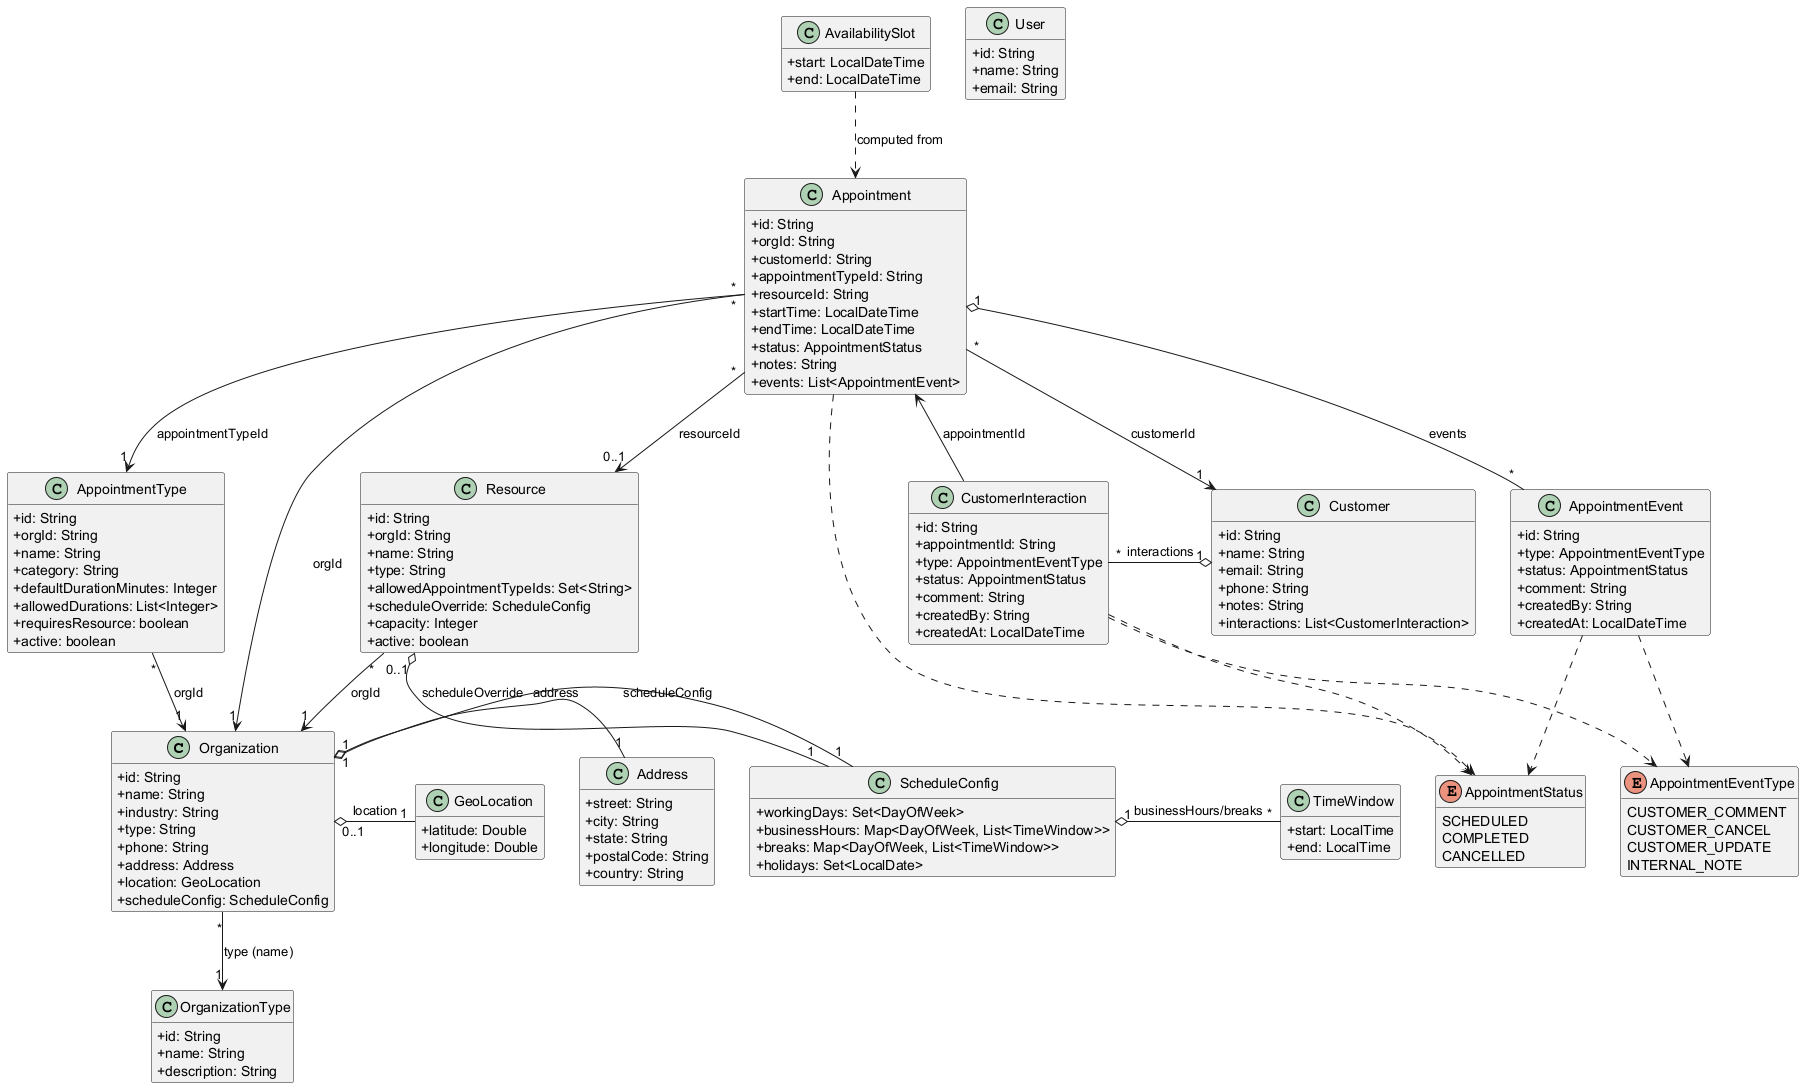
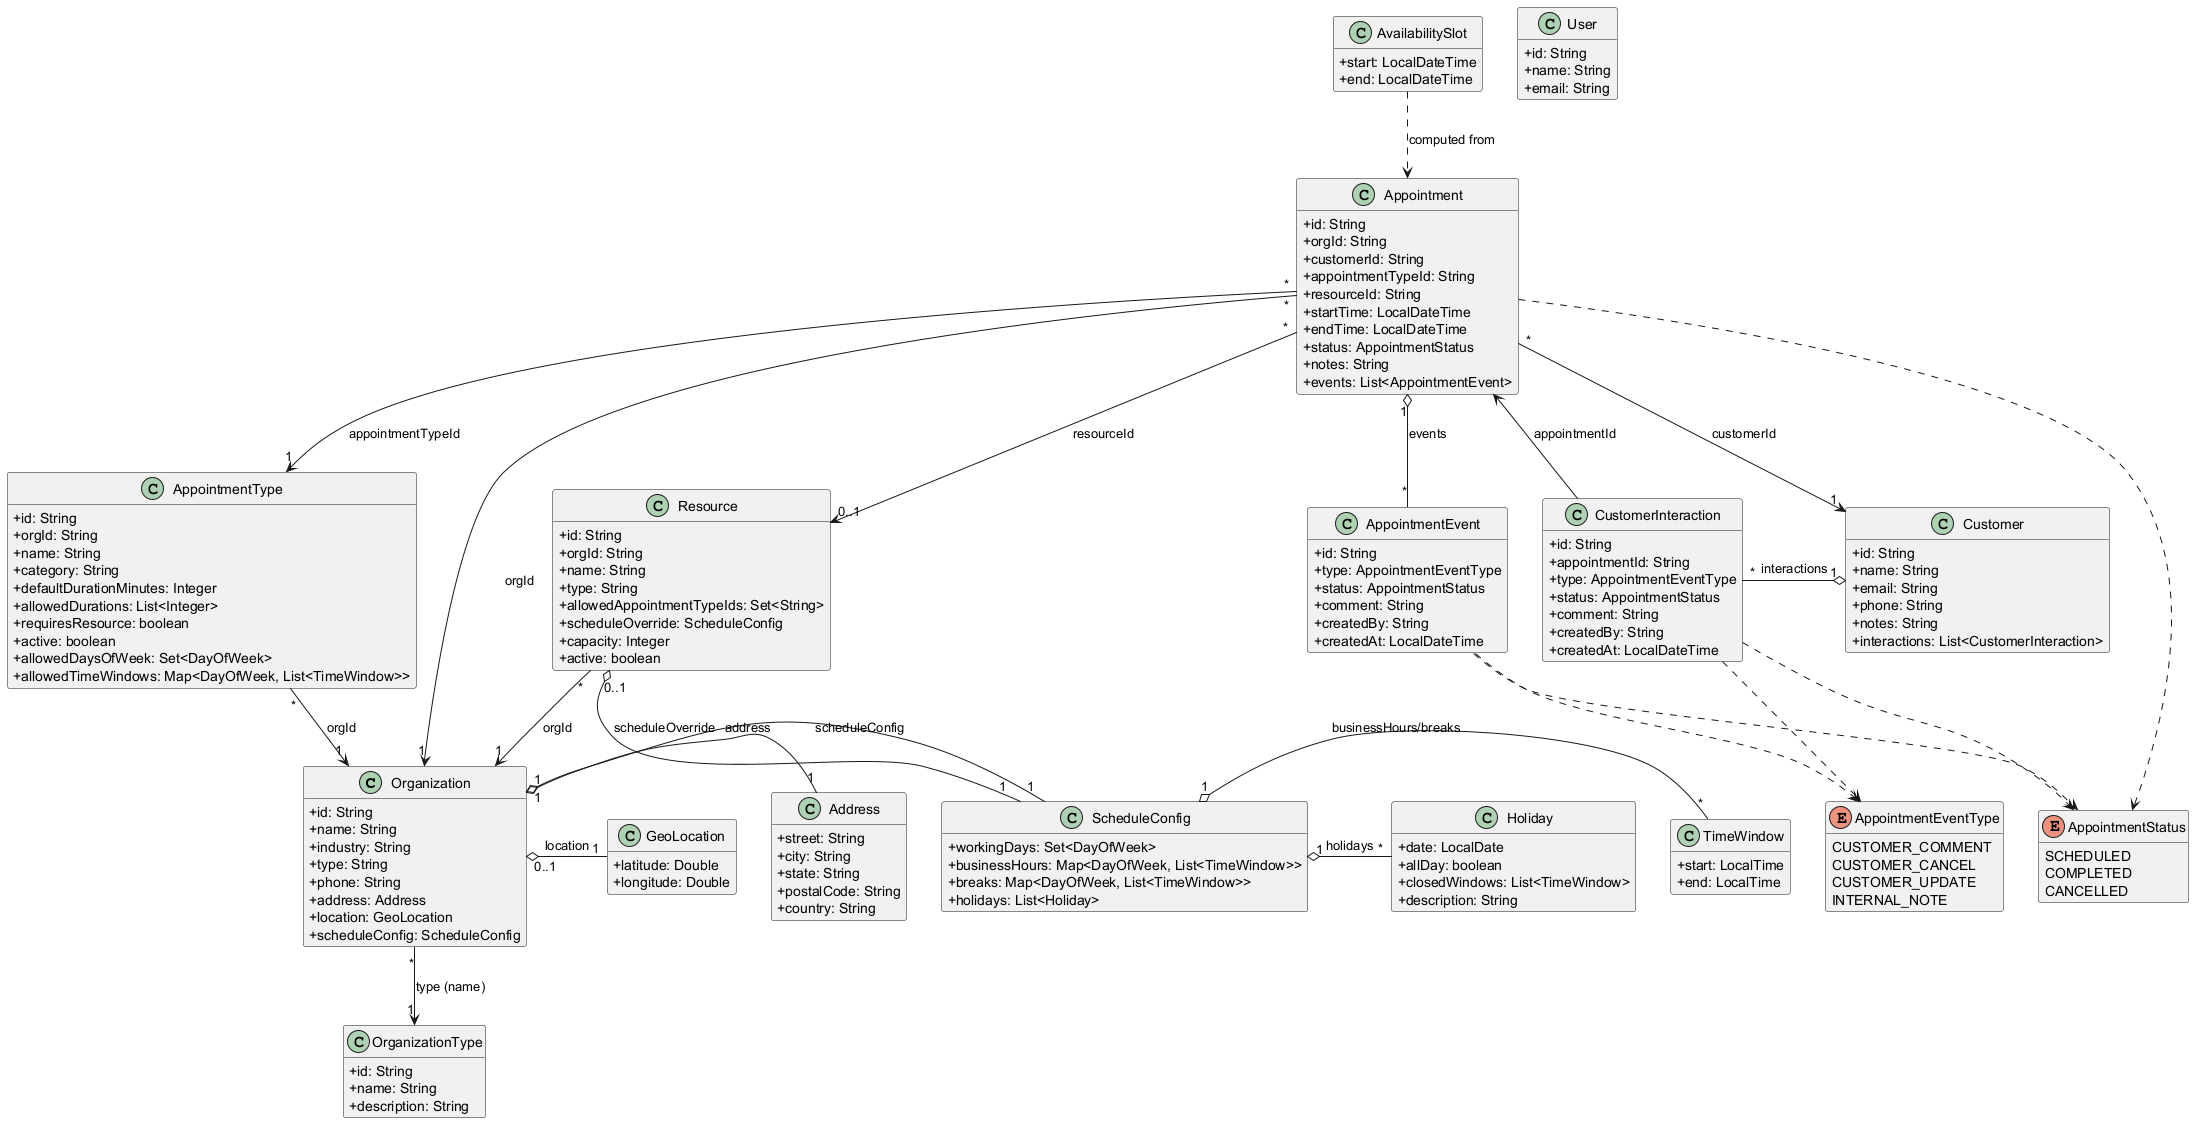
lastWoekinfVersion

diff --git a/demo/src/main/java/com/exampleproject/service/AvailabilityService.java b/demo/src/main/java/com/exampleproject/service/AvailabilityService.java
@@ -93,9 +93,17 @@ public class AvailabilityService {
         List<AvailabilitySlot> slots = new ArrayList<>();
         LocalDate date = from.toLocalDate();
         LocalDate endDate = to.toLocalDate();
+        List<Holiday> holidays = Optional.ofNullable(schedule.getHolidays()).orElse(Collections.emptyList());
+        Set<DayOfWeek> typeAllowedDays = type.getAllowedDaysOfWeek();
+        Map<DayOfWeek, List<TimeWindow>> typeAllowedWindows = type.getAllowedTimeWindows();
 
         while (!date.isAfter(endDate)) {
-            if (schedule.getHolidays() != null && schedule.getHolidays().contains(date)) {
+            final LocalDate currentDate = date;
+            List<Holiday> dayHolidays = holidays.stream()
+                    .filter(h -> h.getDate() != null && h.getDate().equals(currentDate))
+                    .collect(Collectors.toList());
+            boolean fullDayHoliday = dayHolidays.stream().anyMatch(Holiday::isAllDay);
+            if (fullDayHoliday) {
                 date = date.plusDays(1);
                 continue;
             }
@@ -104,8 +112,30 @@ public class AvailabilityService {
                 date = date.plusDays(1);
                 continue;
             }
+            if (typeAllowedDays != null && !typeAllowedDays.isEmpty() && !typeAllowedDays.contains(dow)) {
+                date = date.plusDays(1);
+                continue;
+            }
             List<TimeWindow> dayWindows = optionalList(schedule.getBusinessHours(), dow);
-            List<TimeWindow> dayBreaks = optionalList(schedule.getBreaks(), dow);
+            List<TimeWindow> allowedWindows = typeAllowedWindows != null
+                    ? sanitizeTimeWindows(typeAllowedWindows.getOrDefault(dow, Collections.emptyList()))
+                    : Collections.emptyList();
+            if (!allowedWindows.isEmpty()) {
+                dayWindows = intersectTimeWindows(dayWindows, allowedWindows);
+            }
+            if (dayWindows.isEmpty()) {
+                date = date.plusDays(1);
+                continue;
+            }
+            List<TimeWindow> dayBreaks = new ArrayList<>(optionalList(schedule.getBreaks(), dow));
+
+            List<TimeWindow> holidayBlocks = dayHolidays.stream()
+                    .filter(h -> !h.isAllDay())
+                    .flatMap(h -> sanitizeTimeWindows(h.getClosedWindows()).stream())
+                    .collect(Collectors.toList());
+            if (!holidayBlocks.isEmpty()) {
+                dayBreaks.addAll(holidayBlocks);
+            }
 
             for (TimeWindow window : dayWindows) {
                 LocalDateTime windowStart = LocalDateTime.of(date, window.getStart());
@@ -147,11 +177,7 @@ public class AvailabilityService {
     private List<TimeWindow> optionalList(Map<DayOfWeek, List<TimeWindow>> map, DayOfWeek key) {
         if (map == null) return Collections.emptyList();
         List<TimeWindow> lst = map.getOrDefault(key, Collections.emptyList());
-        // Ensure sorted and valid
-        return lst.stream()
-                .filter(tw -> tw.getStart() != null && tw.getEnd() != null && tw.getStart().isBefore(tw.getEnd()))
-                .sorted(Comparator.comparing(TimeWindow::getStart))
-                .collect(Collectors.toList());
+        return sanitizeTimeWindows(lst);
     }
 
     private boolean overlapsBreak(LocalDateTime start, LocalDateTime end, LocalDate date, List<TimeWindow> breaks) {
@@ -176,5 +202,29 @@ public class AvailabilityService {
     private boolean overlap(LocalDateTime s1, LocalDateTime e1, LocalDateTime s2, LocalDateTime e2) {
         return s1.isBefore(e2) && s2.isBefore(e1);
     }
-}
 
+    private List<TimeWindow> sanitizeTimeWindows(List<TimeWindow> windows) {
+        if (windows == null) return Collections.emptyList();
+        return windows.stream()
+                .filter(tw -> tw.getStart() != null && tw.getEnd() != null && tw.getStart().isBefore(tw.getEnd()))
+                .sorted(Comparator.comparing(TimeWindow::getStart))
+                .collect(Collectors.toList());
+    }
+
+    private List<TimeWindow> intersectTimeWindows(List<TimeWindow> base, List<TimeWindow> constraints) {
+        if (base.isEmpty() || constraints.isEmpty()) {
+            return Collections.emptyList();
+        }
+        List<TimeWindow> result = new ArrayList<>();
+        for (TimeWindow b : base) {
+            for (TimeWindow c : constraints) {
+                LocalTime start = b.getStart().isAfter(c.getStart()) ? b.getStart() : c.getStart();
+                LocalTime end = b.getEnd().isBefore(c.getEnd()) ? b.getEnd() : c.getEnd();
+                if (start.isBefore(end)) {
+                    result.add(new TimeWindow(start, end));
+                }
+            }
+        }
+        return sanitizeTimeWindows(result);
+    }
+}

diff --git a/demo/src/main/java/com/exampleproject/model/AppointmentType.java b/demo/src/main/java/com/exampleproject/model/AppointmentType.java
@@ -3,9 +3,8 @@ package com.exampleproject.model;
 import org.springframework.data.annotation.Id;
 import org.springframework.data.mongodb.core.mapping.Document;
 
-import java.util.ArrayList;
-import java.util.List;
-import java.util.Objects;
+import java.time.DayOfWeek;
+import java.util.*;
 
 @Document("appointment_types")
 public class AppointmentType {
@@ -18,6 +17,8 @@ public class AppointmentType {
     private List<Integer> allowedDurations = new ArrayList<>(); // e.g., [15,30,45,60]
     private boolean requiresResource = false; // if true, must specify resource
     private boolean active = true;
+    private Set<DayOfWeek> allowedDaysOfWeek;
+    private Map<DayOfWeek, List<TimeWindow>> allowedTimeWindows = new EnumMap<>(DayOfWeek.class);
 
     public AppointmentType() {}
 
@@ -29,7 +30,9 @@ public class AppointmentType {
             Integer defaultDurationMinutes,
             List<Integer> allowedDurations,
             boolean requiresResource,
-            boolean active
+            boolean active,
+            Set<DayOfWeek> allowedDaysOfWeek,
+            Map<DayOfWeek, List<TimeWindow>> allowedTimeWindows
     ) {
         this.id = id;
         this.orgId = orgId;
@@ -39,6 +42,10 @@ public class AppointmentType {
         this.allowedDurations = allowedDurations;
         this.requiresResource = requiresResource;
         this.active = active;
+        this.allowedDaysOfWeek = allowedDaysOfWeek;
+        if (allowedTimeWindows != null) {
+            this.allowedTimeWindows = allowedTimeWindows;
+        }
     }
 
     public String getId() { return id; }
@@ -65,6 +72,14 @@ public class AppointmentType {
     public boolean isActive() { return active; }
     public void setActive(boolean active) { this.active = active; }
 
+    public Set<DayOfWeek> getAllowedDaysOfWeek() { return allowedDaysOfWeek; }
+    public void setAllowedDaysOfWeek(Set<DayOfWeek> allowedDaysOfWeek) { this.allowedDaysOfWeek = allowedDaysOfWeek; }
+
+    public Map<DayOfWeek, List<TimeWindow>> getAllowedTimeWindows() { return allowedTimeWindows; }
+    public void setAllowedTimeWindows(Map<DayOfWeek, List<TimeWindow>> allowedTimeWindows) {
+        this.allowedTimeWindows = allowedTimeWindows != null ? allowedTimeWindows : new EnumMap<>(DayOfWeek.class);
+    }
+
     @Override
     public boolean equals(Object o) {
         if (this == o) return true;
@@ -87,4 +102,3 @@ public class AppointmentType {
                 '}';
     }
 }
-

diff --git a/demo/src/main/java/com/exampleproject/model/Holiday.java b/demo/src/main/java/com/exampleproject/model/Holiday.java
@@ -1,0 +1,60 @@
+package com.exampleproject.model;
+
+import java.time.LocalDate;
+import java.util.ArrayList;
+import java.util.List;
+import java.util.Objects;
+
+public class Holiday {
+    private LocalDate date;
+    private boolean allDay = true;
+    private List<TimeWindow> closedWindows = new ArrayList<>();
+    private String description;
+
+    public Holiday() {}
+
+    public Holiday(LocalDate date, boolean allDay, List<TimeWindow> closedWindows, String description) {
+        this.date = date;
+        this.allDay = allDay;
+        this.closedWindows = closedWindows;
+        this.description = description;
+    }
+
+    public LocalDate getDate() { return date; }
+    public void setDate(LocalDate date) { this.date = date; }
+
+    public boolean isAllDay() { return allDay; }
+    public void setAllDay(boolean allDay) { this.allDay = allDay; }
+
+    public List<TimeWindow> getClosedWindows() { return closedWindows; }
+    public void setClosedWindows(List<TimeWindow> closedWindows) { this.closedWindows = closedWindows; }
+
+    public String getDescription() { return description; }
+    public void setDescription(String description) { this.description = description; }
+
+    @Override
+    public boolean equals(Object o) {
+        if (this == o) return true;
+        if (!(o instanceof Holiday)) return false;
+        Holiday holiday = (Holiday) o;
+        return Objects.equals(date, holiday.date) &&
+                allDay == holiday.allDay &&
+                Objects.equals(closedWindows, holiday.closedWindows) &&
+                Objects.equals(description, holiday.description);
+    }
+
+    @Override
+    public int hashCode() {
+        return Objects.hash(date, allDay, closedWindows, description);
+    }
+
+    @Override
+    public String toString() {
+        return "Holiday{" +
+                "date=" + date +
+                ", allDay=" + allDay +
+                ", closedWindows=" + closedWindows +
+                ", description='" + description + '\'' +
+                '}';
+    }
+}

diff --git a/demo/src/main/java/com/exampleproject/model/ScheduleConfig.java b/demo/src/main/java/com/exampleproject/model/ScheduleConfig.java
@@ -1,17 +1,10 @@
 package com.exampleproject.model;
 
 import java.time.DayOfWeek;
-import java.time.LocalDate;
 import java.util.*;
 
 public class ScheduleConfig {
-    private Set<DayOfWeek> workingDays = EnumSet.of(
-            DayOfWeek.MONDAY,
-            DayOfWeek.TUESDAY,
-            DayOfWeek.WEDNESDAY,
-            DayOfWeek.THURSDAY,
-            DayOfWeek.FRIDAY
-    );
+    private Set<DayOfWeek> workingDays = EnumSet.allOf(DayOfWeek.class);
 
     // Business hours per day-of-week
     private Map<DayOfWeek, List<TimeWindow>> businessHours = new EnumMap<>(DayOfWeek.class);
@@ -19,8 +12,8 @@ public class ScheduleConfig {
     // Breaks per day-of-week
     private Map<DayOfWeek, List<TimeWindow>> breaks = new EnumMap<>(DayOfWeek.class);
 
-    // Whole-day holidays
-    private Set<LocalDate> holidays = new HashSet<>();
+    // Holidays which can cover full or partial days
+    private List<Holiday> holidays = new ArrayList<>();
 
     public ScheduleConfig() {}
 
@@ -33,7 +26,6 @@ public class ScheduleConfig {
     public Map<DayOfWeek, List<TimeWindow>> getBreaks() { return breaks; }
     public void setBreaks(Map<DayOfWeek, List<TimeWindow>> breaks) { this.breaks = breaks; }
 
-    public Set<LocalDate> getHolidays() { return holidays; }
-    public void setHolidays(Set<LocalDate> holidays) { this.holidays = holidays; }
+    public List<Holiday> getHolidays() { return holidays; }
+    public void setHolidays(List<Holiday> holidays) { this.holidays = holidays; }
 }
-
